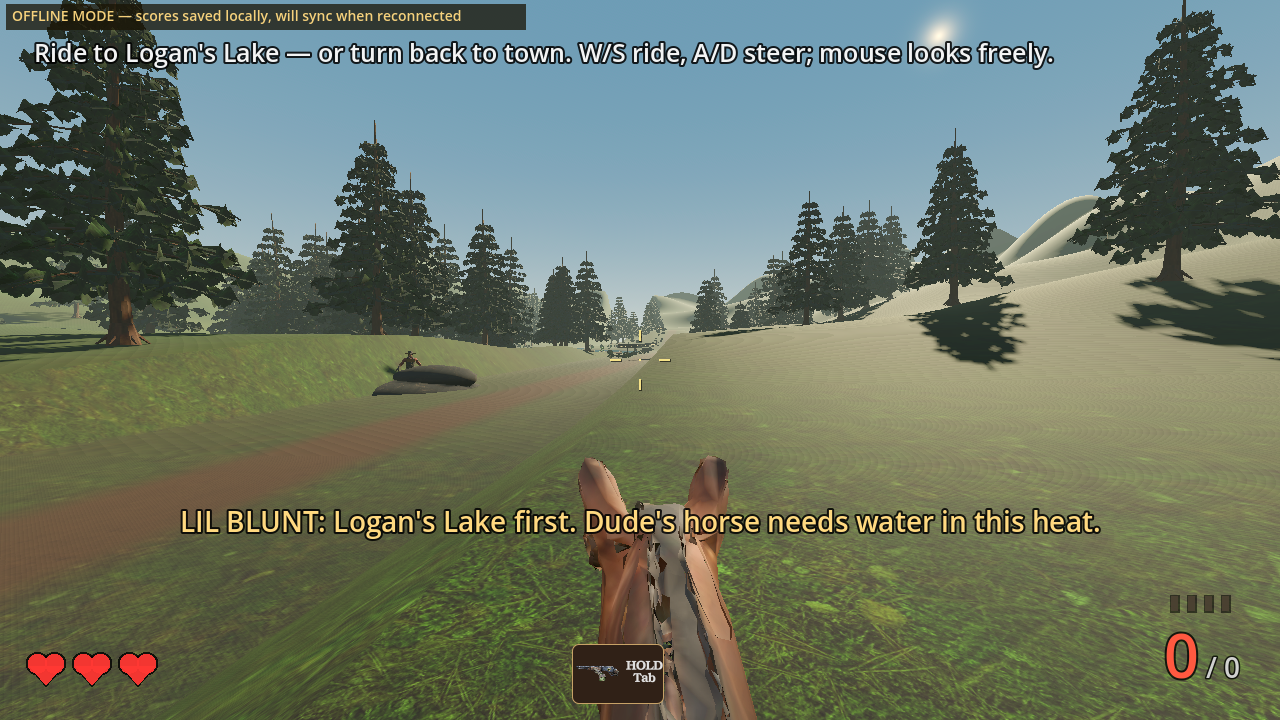
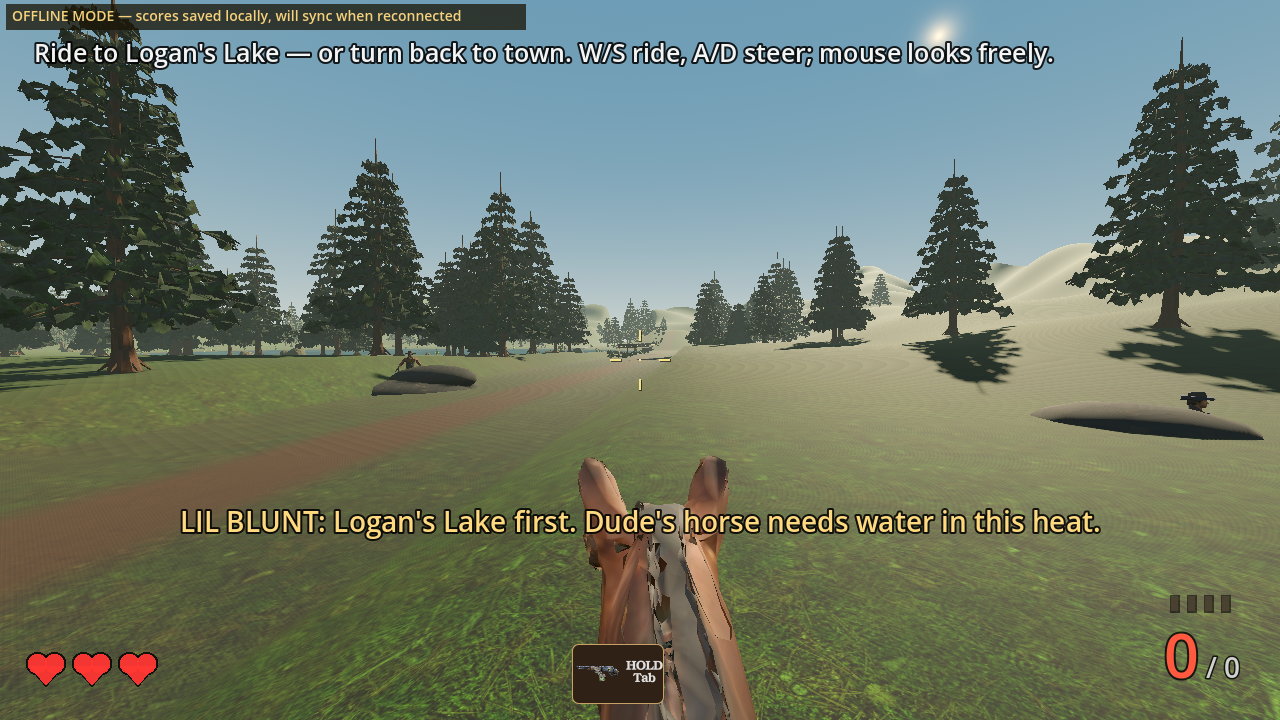
Bound secondary mirror uploads and preserve concurrent lake release

diff --git a/docs/episode2-quality/world-voice-music-20261029/REVIEW.md b/docs/episode2-quality/world-voice-music-20261029/REVIEW.md
@@ -29,3 +29,7 @@ Visited-instance retention is within the active session. Existing manual Continu
 Final local export: main pack 197,509,232 bytes; streamed extras 127,642,560 bytes (both below 199,229,440 bytes). Chromium verifies canvas, engine boot, no Godot script errors, nonthreaded runtime and Stage 1 gameplay. Exact Episode 2 behavior is covered by the native route/regression tests and Compatibility camera captures, not by an authenticated browser walkthrough.
 
 Full workflow headless suite completed through `scripts/ci-gates-local.sh`; all gates pass with the repository's documented three local pause-menu geometry differences tolerated. The hosted attempt 40730916358 passed those pause checks but stopped at the stable test because its assertion still hardcoded Dude's former voice ID. The interaction already returned the requested new ID. The assertion now checks `3N5PpVsIKXqmtLAhF2Lj`, preserving the same conversation, distance and draw-interruption checks; the full stable battery passes all 98 checks. No runtime code was changed for this assertion correction. Compact full-suite results are in `all-ci-headless-checks.txt`.
+
+Release integration: master advanced to 5f908771 with the concurrent 49564e8d lake-life, enlarged basin and player-map-marker work. All those changes are retained. Production 40736490312 attempt 2 passed its complete gameplay block, camera proofs, export and security audit, but exhausted its 45-minute job limit on the secondary gh-pages mirror before butler ran. A verified same-source artifact from successful branch run 40736486366 was uploaded with checksum-pinned butler 15.28.0 (55.14 MiB fresh, itch build 2236753); it is an intermediate release, not the final merged source. The mirror now omits both packs over GitHub's per-file cap and has a 3-minute nonblocking bound. Primary itch packaging/upload keeps both fresh packs and all gameplay/security checks unchanged. Final combined-source publication and public BUILD proof follow in the release receipt.
+
+Merged source checks pass: lake art 27, lake life 0 failed, world routes 26, complete trail and Logan story, region map 10. New actual Compatibility camera captures replace the earlier pictures and show the expanded concurrent lake basin through the same continuous handoff. Prior full CI/native results remain applicable to unchanged cast/audio, town, lift and shared systems.
